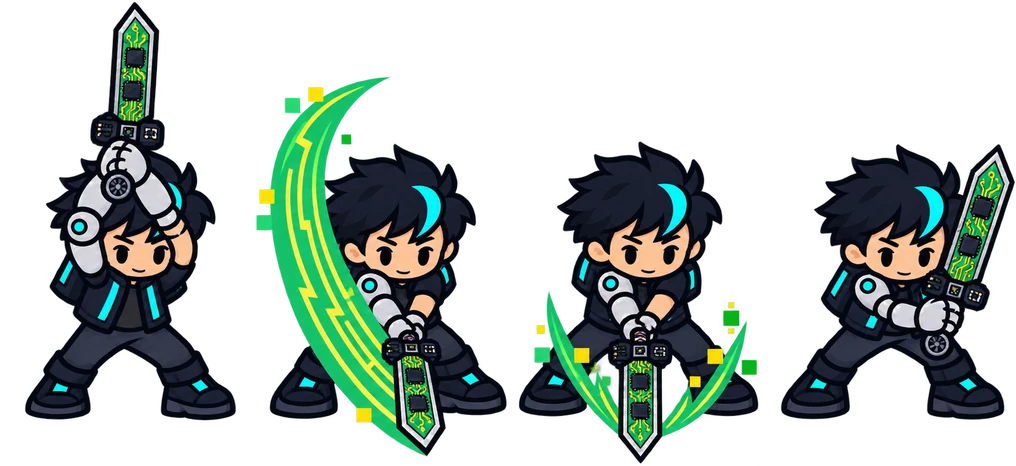
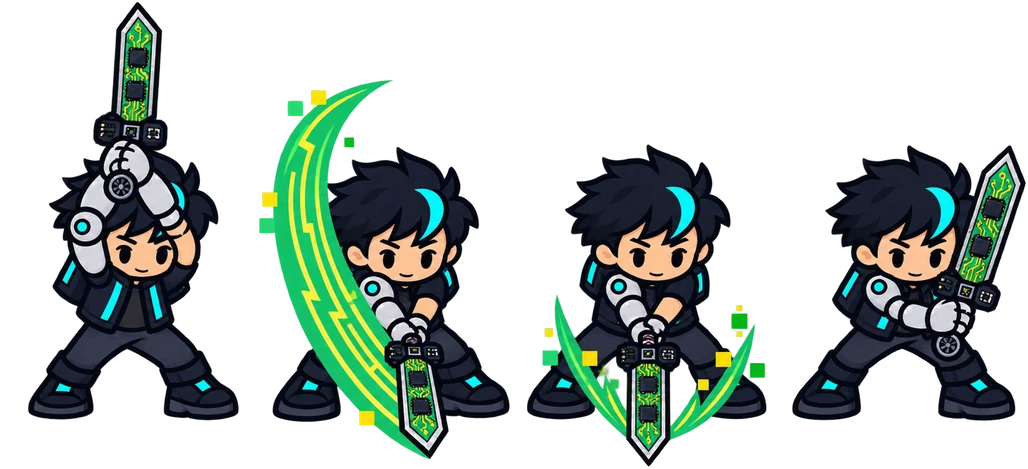
mothersword animation, shop pricing, added HIT rate

diff --git a/public/game.html b/public/game.html
@@ -598,9 +598,9 @@
       desc: 'A premium personality overlay. The biggest charisma boost per install. +15% price per install.' },
     // class 'equipment': goes to the inventory, gives its bonus only once equipped (I → A/D → Space). Never stacks (1 per slot).
     // Any number can be bought and carried (buying one you already have asks first); only one per equipment slot is worn.
-    { name: 'Banana sword', tab: 'weapons', buyLevel: 2, meleeArea: 1.2, price: 370, gain: { strength: 3, charisma: 1 }, attackMs: -120, class: 'equipment', kind: 'sword', art: 'bananaSword', rarity: 'common',   // attackMs: swings 0.1 s faster
+    { name: 'Banana sword', tab: 'weapons', buyLevel: 2, meleeArea: 1.2, price: 260, gain: { strength: 1, charisma: 1 }, hit: 5, attackMs: -100, class: 'equipment', kind: 'sword', art: 'bananaSword', rarity: 'common',   // attackMs: swings 0.1 s faster
       desc: 'A curved yellow blade that hits hard and swings fast. Goes to your inventory: equip it there. Only one sword can be equipped.' },
-    { name: 'Mothersword', tab: 'weapons', buyLevel: 2, meleeArea: 1.2, price: 370, gain: { strength: 3, charisma: 1 }, attackMs: -120, class: 'equipment', kind: 'sword', art: 'mothersword', attackSheets: 'mother', rarity: 'common',
+    { name: 'Mothersword', tab: 'weapons', buyLevel: 3, meleeArea: 1.25, price: 390, gain: { strength: 2, charisma: 1 }, hit: 9, attackMs: -120, class: 'equipment', kind: 'sword', art: 'mothersword', attackSheets: 'mother', rarity: 'common',
       desc: 'A home-made blade cut from an old motherboard. Basic for now, but its empty sockets can take upgrades at MutaTech.' },
     // armor (Armor tab): capGain raises max HP / NRG while worn, hpRegen adds health per minute, speed = move speed bonus
     { name: 'NRG Headset', tab: 'armor', price: 370, gain: { charisma: 1 }, capGain: { health: 1, energy: 3 }, hpRegen: 1, class: 'equipment', slot: 'head', art: 'nrgHeadset', rarity: 'common',
@@ -645,8 +645,8 @@
       desc: 'A pocket bank vault on your back. Twelve slots, and if you die, 10% of your money stays with you.' },
     // crafted at MutaTech (Banana sword + 5 MutaGen + 30 energy, hero lvl 4). price: its value (not sold in shops yet; the Scrap Dealer pays 40%).
     // meleeArea: melee area × 1.3; minLevel: hero level needed to equip. Uses the Banana sword picture until it has its own art.
-    { name: 'baNano Sword', class: 'equipment', kind: 'sword', rarity: 'rare', price: 1200, minLevel: 4, meleeArea: 1.3, attackMs: -140,
-      gain: { strength: 6, charisma: 3 }, art: 'bananoSword', attackSheets: 'banano',
+    { name: 'baNano Sword', class: 'equipment', kind: 'sword', rarity: 'rare', price: 1200, minLevel: 4, meleeArea: 1.3, attackMs: -140, hit: 24,
+      gain: { strength: 5, charisma: 3 }, art: 'bananoSword', attackSheets: 'banano',
       desc: 'A Banana sword mutated by MutaGen down to the nano level. Its living, self-sharpening peel glows acid green and cuts faster than ever.' },
   ];
   // Scrap Dealer (slums): buys equipment for 40% of its shop price plus 1% of that price in scrap (rounded down),
@@ -1306,43 +1306,87 @@
     for (const id of zonesOf('factoryIn')) for (let q = 0; q < 4; q++)
       for (let n = 3 + Math.floor(rnd() * 2); n >= 3; n--) if (placeRow(id, Array(n).fill('cont'), q)) break;
     for (const id of zonesOf('factory')) for (let i = 0; i < 6; i++) place(id, 'cont');
-    // toxic lake: a research hut in every zone; 1 pump station, in 0:-2, right at the water with its pipes going in
     // enemies placed with the scenery: A.extraFoes (no twins). tileOk: open ground, away from passages
     const tileOk = (A, x, y) => x >= 1 && y >= 1 && x <= COLS - 2 && y <= ROWS - 2 && !A.walls.some(o => inFoot(foot(o), x, y, 0))
       && !lakeT(A, x, y) && !bigT(A, x, y) && !(A.coils || []).some(c => c.x - 1 === x && c.y - 1 === y)
       && !A.exits.some(e => e.tiles.some(([tx, ty]) => Math.abs(tx - x) < 3 && Math.abs(ty - y) < 3))
       && !(A.extraFoes || []).some(f => f.spawn.x - 1 === x && f.spawn.y - 1 === y) && !behindTall(Object.keys(AREAS).find(k => AREAS[k] === A), x, y);
-    const addFoe = (A, kind, x, y) => (A.extraFoes = A.extraFoes || []).push({ kind, spawn: { x: x + 1, y: y + 1 } });
+    // every enemy belongs to a group (a lab's Scavs, a patch's Sporelings, the satellite's drones, or just itself).
+    // Enemies of different groups start at least FOE_GAP tiles apart (diagonals count as 1; a Loader counts all 4 of its tiles).
+    const FOE_GAP = 6;
+    let groupN = 0;
+    const newGroup = () => ++groupN;
+    const foeTiles = f => f.kind === 'loader' ? [[0, 0], [1, 0], [0, -1], [1, -1]].map(([dx, dy]) => [f.spawn.x - 1 + dx, f.spawn.y - 1 + dy]) : [[f.spawn.x - 1, f.spawn.y - 1]];
+    const farFromFoes = (A, tiles, group) => !(A.extraFoes || []).some(f => f.group !== group && foeTiles(f).some(([fx, fy]) => tiles.some(([x, y]) => Math.max(Math.abs(fx - x), Math.abs(fy - y)) < FOE_GAP)));
+    const addFoe = (A, kind, x, y, group = newGroup()) => (A.extraFoes = A.extraFoes || []).push({ kind, spawn: { x: x + 1, y: y + 1 }, group });
     function foeSomewhere(id, kind) {
       const A = AREAS[id];
-      for (let t = 0; t < 500; t++) { const x = 2 + Math.floor(rnd() * (COLS - 4)), y = 2 + Math.floor(rnd() * (ROWS - 4)); if (tileOk(A, x, y)) { addFoe(A, kind, x, y); return true; } }
+      for (let t = 0; t < 1500; t++) { const x = 2 + Math.floor(rnd() * (COLS - 4)), y = 2 + Math.floor(rnd() * (ROWS - 4)); if (tileOk(A, x, y) && farFromFoes(A, [[x, y]], -1)) { addFoe(A, kind, x, y); return true; } }
       return false;
     }
-    // toxic lake: 2 research labs per zone, 1-2 Toxic Scavs in front of each
-    for (const id of zonesOf('lake')) for (let i = 0; i < 2; i++) {
-      const hut = place(id, 'hut');
-      if (!hut) continue;
-      const A = AREAS[id], f = foot(hut), spots = [];
-      for (let y = f.y1 + 1; y <= f.y1 + 2; y++) for (let x = f.x0 - 1; x <= f.x1 + 1; x++) if (tileOk(A, x, y)) spots.push([x, y]);
-      const n = 1 + (rnd() < 0.5 ? 1 : 0);
-      for (const [x, y] of shuffle(spots).slice(0, n)) addFoe(A, 'scav', x, y);
-    }
+    // ---- scenery first: pump, satellite, labs, mushroom patches ----
     // 1 pump station, in 0:-2, right at the water. Exception: always mirrored, so its pipes (then at the lower-right) go into the lake
     const pumpFaces = (w, f, A) => { for (const x of [f.x1, f.x1 + 1, f.x1 + 2]) for (let y = f.y1 + 1; y <= f.y1 + 2; y++) if (lakeT(A, x, y)) return true; return false; };
     place('0:-2', 'pump', { shore: true, flip: true, test: pumpFaces });
-    // deep forest: the fallen satellite in -8:-1 with 6 Mav-1K drones, each 3-6 tiles from it; 2-3 Toxic Scavs in every zone
-    {
-      const id = '-8:-1', s = place(id, 'sat', { test: (w, f) => f.x0 >= 8 && f.x1 <= COLS - 9 && f.y0 >= 7 && f.y1 <= ROWS - 8 });   // room around it for the drones
-      if (s) {
-        const A = AREAS[id], f = foot(s);
-        const dist = (x, y) => Math.max(Math.max(f.x0 - x, 0, x - f.x1), Math.max(f.y0 - y, 0, y - f.y1));   // tiles from its footprint
-        for (let k = 0, t = 0; k < 6 && t < 2000; t++) {
-          const x = f.x0 - 6 + Math.floor(rnd() * (f.x1 - f.x0 + 13)), y = f.y0 - 6 + Math.floor(rnd() * (f.y1 - f.y0 + 13)), d = dist(x, y);
-          if (d >= 3 && d <= 6 && tileOk(A, x, y)) { addFoe(A, 'drone', x, y); k++; }
-        }
+    const sat = place('-8:-1', 'sat', { test: (w, f) => f.x0 >= 8 && f.x1 <= COLS - 9 && f.y0 >= 7 && f.y1 <= ROWS - 8 });   // the fallen satellite, room around it for its drones
+    // research labs: toxic lake 2 per zone; forest 5 (1 per 2 zones, rounded up, never 2 in a zone); deep forest 9: the zones are
+    // paired at random and every pair gets 2 labs (1 + 1 or 2 + 0), the odd zone 1
+    const labsIn = {};
+    for (const id of zonesOf('lake')) labsIn[id] = 2;
+    for (const id of shuffle(zonesOf('forest')).slice(0, Math.ceil(zonesOf('forest').length / 2))) labsIn[id] = 1;
+    { const dz = shuffle(zonesOf('deepForest'));
+      for (let i = 0; i + 1 < dz.length; i += 2) { if (rnd() < 0.5) { labsIn[dz[i]] = 1; labsIn[dz[i + 1]] = 1; } else { labsIn[dz[i]] = 2; labsIn[dz[i + 1]] = 0; } }
+      if (dz.length % 2) labsIn[dz[dz.length - 1]] = 1; }
+    // mushroom patches: forest 3 per zone, deep forest 8 per zone (2 in every quadrant)
+    for (const id of zonesOf('forest')) for (let i = 0; i < 3; i++) place(id, 'mush');
+    for (const id of zonesOf('deepForest')) for (let q = 0; q < 4; q++) for (let k = 0; k < 2; k++) if (!place(id, 'mush', { q })) place(id, 'mush');
+    // ---- enemies: biggest first, so the small groups fit around them ----
+    // Overgrown Loaders: one per 3 forest / deep forest zones, near the middle of the zone (the search widens step by step),
+    // never by the fallen satellite (spawn = its bottom-left tile)
+    for (const id of ['-3:-2', '-4:0', '-6:-1', '-7:0', '-8:-2', '-10:-1']) {
+      const A = AREAS[id], cx = Math.floor(COLS / 2), cy = Math.floor(ROWS / 2);
+      const satF = sat && AREAS['-8:-1'] === A ? foot(sat) : null;
+      done: for (let r = 3; r <= 18; r += 3) for (let t = 0; t < 400; t++) {
+        const x = cx - 1 - r + Math.floor(rnd() * (2 * r + 1)), y = cy - r + Math.floor(rnd() * (2 * r + 1));
+        const tiles = [[0, 0], [1, 0], [0, -1], [1, -1]].map(([dx, dy]) => [x + dx, y + dy]);
+        if (!tiles.every(([tx, ty]) => tileOk(A, tx, ty) && !(A.decos || []).some(o => inFoot(foot(o), tx, ty, 0))) || !farFromFoes(A, tiles, -1)) continue;   // not on a mushroom patch
+        if (satF && tiles.some(([tx, ty]) => Math.max(Math.max(satF.x0 - tx, 0, tx - satF.x1), Math.max(satF.y0 - ty, 0, ty - satF.y1)) < 10)) continue;
+        addFoe(A, 'loader', x, y); break done;
       }
     }
-    for (const id of zonesOf('deepForest')) { const n = 2 + (rnd() < 0.5 ? 1 : 0); for (let i = 0; i < n; i++) foeSomewhere(id, 'scav'); }
+    // the satellite's 6 Mav-1K drones (one group), each 3-6 tiles from it
+    if (sat) {
+      const A = AREAS['-8:-1'], f = foot(sat), g = newGroup();
+      const dist = (x, y) => Math.max(Math.max(f.x0 - x, 0, x - f.x1), Math.max(f.y0 - y, 0, y - f.y1));   // tiles from its footprint
+      for (let k = 0, t = 0; k < 6 && t < 3000; t++) {
+        const x = f.x0 - 6 + Math.floor(rnd() * (f.x1 - f.x0 + 13)), y = f.y0 - 6 + Math.floor(rnd() * (f.y1 - f.y0 + 13)), d = dist(x, y);
+        if (d >= 3 && d <= 6 && tileOk(A, x, y) && farFromFoes(A, [[x, y]], g)) { addFoe(A, 'drone', x, y, g); k++; }
+      }
+    }
+    // Toxic Scavs live only at labs, in front of the door: zone level 1-5 → 1-2 per lab, 6-10 → 1-3, 11-15 → 2-3, 16-20 → 3-4.
+    // A lab is only put where its front yard is FOE_GAP tiles from every other group.
+    const scavsAt = lvl => lvl <= 5 ? [1, 2] : lvl <= 10 ? [1, 3] : lvl <= 15 ? [2, 3] : [3, 4];
+    const labYard = (A, f) => { const spots = []; for (let y = f.y1 + 1; y <= f.y1 + 2; y++) for (let x = f.x0 - 1; x <= f.x1 + 1; x++) if (tileOk(A, x, y)) spots.push([x, y]); return spots; };
+    for (const id in labsIn) for (let i = 0; i < labsIn[id]; i++) {
+      const A = AREAS[id], [lo, hi] = scavsAt(zoneLevel(id)), n = lo + Math.floor(rnd() * (hi - lo + 1));
+      const hut = place(id, 'hut', { test: (w, f) => { const y = labYard(A, f); return y.length >= n && farFromFoes(A, y, -1); } });
+      if (!hut) continue;
+      const g = newGroup();
+      for (const [x, y] of shuffle(labYard(A, foot(hut))).slice(0, n)) addFoe(A, 'scav', x, y, g);
+    }
+    // Sporelings: a group of 2-3 at one in three mushroom patches of each zone (rounded up), on or right next to the patch
+    for (const id of [...zonesOf('forest'), ...zonesOf('deepForest')]) {
+      const A = AREAS[id], patches = shuffle((A.decos || []).filter(w => w.art === 'mushroomPatch'));
+      let want = Math.ceil(patches.length / 3);
+      for (const m of patches) {
+        if (!want) break;
+        const f = foot(m), spots = [];
+        for (let y = f.y0 - 1; y <= f.y1 + 1; y++) for (let x = f.x0 - 1; x <= f.x1 + 1; x++) if (tileOk(A, x, y)) spots.push([x, y]);
+        const pick = shuffle(spots).slice(0, 2 + (rnd() < 0.5 ? 1 : 0));
+        if (pick.length < 2 || !farFromFoes(A, pick, -1)) continue;
+        const g = newGroup(); for (const [x, y] of pick) addFoe(A, 'spore', x, y, g); want--;
+      }
+    }
     // Drips in the slums: 4 up to 2 zones from the city, then +2 for every 2 zones further (by the farther map coordinate);
     // the greaser district has 12. They replace the Drips placed before, have no twins, and never start behind a tall building.
     for (const id of [...slums, ...zonesOf('greaser')]) {
@@ -1351,30 +1395,12 @@
       A.drips = 0; A.foes = A.foes.filter(f => f.kind !== 'drip');
       for (let i = 0, t = 0; i < n && t < 3000; t++) {
         const x = 2 + Math.floor(rnd() * (COLS - 4)), y = 2 + Math.floor(rnd() * (ROWS - 4));
-        if (!tileOk(A, x, y) || behindTall(id, x, y) || (A.extraFoes || []).some(f => Math.max(Math.abs(f.spawn.x - 1 - x), Math.abs(f.spawn.y - 1 - y)) < 4)) continue;
+        if (!tileOk(A, x, y) || behindTall(id, x, y) || !farFromFoes(A, [[x, y]], -1)) continue;
         addFoe(A, 'drip', x, y); i++;
       }
     }
     // factory entrance: 2 Drips and 1 Mav-1K drone
     for (const id of zonesOf('factoryIn')) { foeSomewhere(id, 'drip'); foeSomewhere(id, 'drip'); foeSomewhere(id, 'drone'); }
-    for (const id of zonesOf('deepForest')) for (let q = 0; q < 4; q++) if (!place(id, 'mush', { q })) place(id, 'mush');
-    // Sporelings: a group of 2-3 hiding on or right next to every mushroom patch
-    for (const id of zonesOf('deepForest')) {
-      const A = AREAS[id];
-      for (const m of (A.decos || []).filter(w => w.art === 'mushroomPatch')) {
-        const f = foot(m), spots = [];
-        for (let y = f.y0 - 1; y <= f.y1 + 1; y++) for (let x = f.x0 - 1; x <= f.x1 + 1; x++) if (tileOk(A, x, y)) spots.push([x, y]);
-        for (const [x, y] of shuffle(spots).slice(0, 2 + (rnd() < 0.5 ? 1 : 0))) addFoe(A, 'spore', x, y);
-      }
-    }
-    // Overgrown Loaders: one per 3 forest / deep forest zones, on open 2 x 2 ground near the middle (spawn = its bottom-left tile)
-    for (const id of ['-3:-2', '-4:0', '-6:-1', '-7:0', '-8:-2', '-10:-1']) {
-      const A = AREAS[id];
-      for (let t = 0; t < 2000; t++) {
-        const x = 8 + Math.floor(rnd() * (COLS - 18)), y = 7 + Math.floor(rnd() * (ROWS - 14));
-        if ([[0, 0], [1, 0], [0, -1], [1, -1]].every(([dx, dy]) => tileOk(A, x + dx, y + dy))) { addFoe(A, 'loader', x, y); break; }
-      }
-    }
   }
   const footCX = w => { const f = foot(w); return (f.x0 + f.x1 + 1) / 2; };   // footprint centre, in tiles
   const START = { x: 21, y: 11 };   // 0-based: just below HomeDome
@@ -1486,7 +1512,7 @@
     beefBrisket: 'art/items/food/beefBrisket.webp', dumplings: 'art/items/food/dumplings.webp', nrgShot: 'art/items/food/nrgShot.webp',   // food icons
     nrgHeadset: 'art/items/armor/nrgHeadset.webp', nrgShirt: 'art/items/armor/nrgShirt.webp', nrgSneakers: 'art/items/armor/nrgSneakers.webp',   // armor icons
     bananoSword: 'art/items/weapons/bananoSword.webp',   // baNano Sword icon (also drawn on his back)
-    heroMotherSide: 'art/hero/heroMotherSide.webp', heroMotherDown: 'art/hero/heroMotherDown.webp',   // Mothersword attacks
+    heroMotherSide: 'art/hero/heroMotherSide.webp', heroMotherDown: 'art/hero/heroMotherDown.webp', heroMotherUp: 'art/hero/heroMotherUp.webp',   // Mothersword attacks
     heroBananoSide: 'art/hero/heroBananoSide.png', heroBananoDown: 'art/hero/heroBananoDown.png', heroBananoUp: 'art/hero/heroBananoUp.png',   // baNano Sword attacks
     ground:       'art/world/ground/ground.webp',   // seamless street floor, no joints (repeats every 6 x 6 tiles)
     groundSlums: 'art/world/ground/groundSlums.jpg', groundFactory: 'art/world/ground/groundFactory.jpg', groundLake: 'art/world/ground/groundLake.jpg',   // zone floors, same repeat
@@ -1553,7 +1579,7 @@
   const HERO_ATTACK_SHEETS = { punch: { side: 'heroPunchSide', down: 'heroPunchDown', up: 'heroPunchUp' },
                                sword: { side: 'heroSwordSide', down: 'heroSwordDown', up: 'heroSwordUp' },
                                banano: { side: 'heroBananoSide', down: 'heroBananoDown', up: 'heroBananoUp' },
-                               mother: { side: 'heroMotherSide', down: 'heroMotherDown', up: 'heroSwordUp' } };   // Mothersword: its up sheet isn't made yet (Banana sword's for now)   // a sword's attackSheets picks its set
+                               mother: { side: 'heroMotherSide', down: 'heroMotherDown', up: 'heroMotherUp' } };   // a sword's attackSheets picks its set
   const ATTACK_CELLS = {
     heroPunchSide: { cellW: 275, cellH: 283, ax: 98.0, foot: 2.1 },
     heroPunchDown: { cellW: 183, cellH: 283, ax: 91.3, foot: 5.0 },
@@ -1564,8 +1590,9 @@
     heroBananoSide: { cellW: 364, cellH: 350, ax: 138.0, foot: 3.0 },
     heroBananoDown: { cellW: 302, cellH: 381, ax: 195.5, foot: 5.0 },
     heroBananoUp: { cellW: 306, cellH: 431, ax: 179.0, foot: 4.0 },
-    heroMotherSide: { cellW: 330, cellH: 366, ax: 162, foot: 5 },
-    heroMotherDown: { cellW: 254, cellH: 466, ax: 130, foot: 46 }
+    heroMotherSide: { cellW: 311, cellH: 367, ax: 146, foot: 8 },
+    heroMotherDown: { cellW: 257, cellH: 469, ax: 133, foot: 50 },
+    heroMotherUp: { cellW: 306, cellH: 433, ax: 181, foot: 4 }
   };
   const HERO_ATTACK_ANIM_MS = 400;   // 4 frames × 100 ms
 
@@ -2139,7 +2166,7 @@
     function snapshot() {
       return { x: player.x, y: player.y, fx: facing.x, fy: facing.y, stats: statsNoBuffs(), deals, prices: { ...prices }, dealsDone, foodBought, itemsV2: true, sets: [...activeSets], promotion, kills, dripKills, weaponBought, rogueDone: [...rogueDone], cheated: runCheated, quests: quests.map(q => q.kind === 'delivery' ? { ...q, left: Math.max(0, q.until - gameTime) } : { ...q }),
                inventory: inventory.map(it => ({ ...it })), equipped: equipped.map(it => ({ ...it })), skills: [...skills],
-               areaName, restReadyAt, levels: { ...levels }, manaCap: CAP_BASE.mana, energyCap: CAP_BASE.energy, level: hero.level, exp: hero.exp, strengthLevel: hero.level, bag, talents: JSON.parse(JSON.stringify(talents)), ceoCalls, tut, tutV: 3, tutN, tutQuiz: { ...tutQuiz }, discovered: [...discovered], enemies: saveEnemies(),
+               weaponsV: 2, areaName, restReadyAt, levels: { ...levels }, manaCap: CAP_BASE.mana, energyCap: CAP_BASE.energy, level: hero.level, exp: hero.exp, strengthLevel: hero.level, bag, talents: JSON.parse(JSON.stringify(talents)), ceoCalls, tut, tutV: 3, tutN, tutQuiz: { ...tutQuiz }, discovered: [...discovered], enemies: saveEnemies(),
                piles: piles.map(p => ({ ...p, gear: p.gear.map(it => ({ ...it })), items: p.items.map(it => ({ ...it })), left: Math.max(0, p.until - gameTime), until: undefined })) };
     }
     function applySave(s) {
@@ -2158,6 +2185,10 @@
       bag = s.bag !== undefined ? s.bag : !inventory.length ? null : inventory.length <= 2 ? 'BackBag' : 'BackBag X';   // saves from before bags: a bag that fits what they carry
       if (s.bag === undefined && bag === 'BackBag X') stats.charisma += 1;
       equipped.length = 0; equipped.push(...renameItems(s.equipped)); recalcCaps();
+      if ((s.weaponsV || 1) < 2) {   // swords were rebalanced: a sword worn in an older save had its old STR added to the stats
+        const OLD_STR = { 'Banana sword': 3, 'Mothersword': 3, 'baNano Sword': 6 };
+        for (const it of equipped) if (it.name in OLD_STR) stats.strength += ((itemDef(it.name) || {}).gain || {}).strength - OLD_STR[it.name];
+      }
       if (!s.itemsV2 && equipped.some(it => it.name === 'Banana sword')) stats.strength -= 1;   // the sword gave +4 STR before (now +3)
       activeSets.clear(); for (const n of s.sets || []) activeSets.add(n); recalcCaps();
       fixEquipSlots(); syncSets();
@@ -3344,6 +3375,14 @@
       if (stats.health <= 0) gameOver();
     }
 
+    // hit rate: 97% against enemies of the hero's level, 100% against lower ones, -10% for every level the enemy is above him.
+    // HIT points (Hero panel, 0 by default) add 0.01% each, up to HIT_CAP points (+3%: 100% against his own level).
+    // They come from equipment (`hit` on an item) later.
+    const HIT_BASE = 0.97, HIT_PER_LVL = 0.1, HIT_PER_PT = 0.0001, HIT_CAP = 300;
+    const hitPts = () => Math.min(HIT_CAP, Math.max(0, equipSum('hit')));
+    const hitChance = (enemyLvl = npcLevel()) => enemyLvl < hero.level ? 1 : Math.max(0, Math.min(1, HIT_BASE + HIT_PER_PT * hitPts() - HIT_PER_LVL * (enemyLvl - hero.level)));
+    const heroHits = () => Math.random() < hitChance();   // every enemy in a fight lives in the hero's zone, so has its level
+    function heroMissed(d) { d.aggro = true; d.returning = false; float('miss', '#8a8a8a', d.x + (foeSize(d) === 2 ? 1 : 0.5), d.y - (d.kind === 'loader' ? 2.4 : 0.9)); }
     function heroAttack() {
       if (gameTime < heroNextAttack) return;
       heroNextAttack = gameTime + heroAttackMs();
@@ -3351,8 +3390,9 @@
       heroAttackDir = facing.x ? 'side' : facing.y > 0 ? 'down' : 'up';
       if (facing.x) lookX = facing.x;
       const crit = Math.random() < critChance(), dmg = Math.round(heroStr() * (crit ? 2 + critBonus() : 1));   // a crit adds strength once more (+ Quick Hands)
-      if (crit && meleeTargets().length) onHeroCrit();
-      for (const d of meleeTargets()) { drip = d; damageDrip(dmg, crit ? `-${dmg} crit!` : `-${dmg}`, crit ? '#ffe600' : '#fff'); }
+      let landed = false;
+      for (const d of meleeTargets()) { drip = d; if (!heroHits()) { heroMissed(d); continue; } landed = true; damageDrip(dmg, crit ? `-${dmg} crit!` : `-${dmg}`, crit ? '#ffe600' : '#fff'); }
+      if (crit && landed) onHeroCrit();
     }
     // time between swings: 1 s with fists; equipment can shorten it (attackMs, e.g. banana sword -100 ms), at least 0.3 s
     const heroAttackMs = () => Math.max(300, Math.round((HERO_ATTACK_MS + equipped.reduce((t, it) => t + ((itemDef(it.name) || {}).attackMs || 0), 0)) / (1 + talentAttackSpeed())));
@@ -3509,7 +3549,8 @@
           if (gone || e.dead || cloaked(e)) continue;
           drip = e;
           const c = foeCentre(dripPos(), e);
-          if (Math.hypot(c.x - pr.x, c.y - pr.y) < 0.3 + foeR(e)) {   // hit: root + damage over time (refreshes if already on)
+          if (Math.hypot(c.x - pr.x, c.y - pr.y) < 0.3 + foeR(e)) {
+            if (!heroHits()) { heroMissed(e); gone = true; continue; }   // Magic Tar missed: no root, no damage   // hit: root + damage over time (refreshes if already on)
             drip.stunUntil = gameTime + pr.spell.rootMs;
             drip.dot = { spell: pr.spell, left: pr.spell.ticks, next: gameTime + pr.spell.tickMs };
             drip.aggro = true;
@@ -4542,7 +4583,7 @@
     }
     // enemy panel at the top while fighting: portrait, name, health, mana
     function drawFoePanel() {
-      const w = 300, h = 80, x = (canvas.width - w) / 2, y = phoneView && canvas.height > canvas.width ? phudBottom() + 12 : 12;
+      const w = 340, h = 80, x = (canvas.width - w) / 2, y = phoneView && canvas.height > canvas.width ? phudBottom() + 12 : 12;
       ctx.fillStyle = 'rgba(0, 0, 0, 0.75)'; rr(x, y, w, h, 12); ctx.fill();
       ctx.strokeStyle = 'rgba(255, 43, 214, 0.6)'; ctx.lineWidth = 2; rr(x + 1, y + 1, w - 2, h - 2, 11); ctx.stroke();
       const T = ET(drip), pic = ART[({ scav: 'scavPortrait', drone: 'dronePortrait', spore: 'sporelingPortrait', loader: 'loaderPortrait' })[drip.kind] || 'dripPortrait'];
@@ -4550,8 +4591,11 @@
       else if (drip.kind === 'drone') { ctx.fillStyle = '#1B2233'; ctx.fillRect(x + 8, y + 8, 64, 64); drawDroneBody(x + 40, y + 44, 0, gameTime, !!drip.hitAt, -1); }
       const tx = x + 84, bw = w - 84 - 14;
       ctx.textBaseline = 'middle';
-      ctx.textAlign = 'left'; ctx.fillStyle = '#fff'; ctx.font = '600 22px ' + MONO; ctx.fillText(T.name, tx, y + 18);
-      const lvl = npcLevel();   // red when stronger than the hero, grey when weaker
+      const lvl = npcLevel();   // level: red when stronger than the hero, grey when weaker
+      ctx.font = '600 16px ' + MONO; const tagW = ctx.measureText(`lvl ${lvl}`).width;
+      ctx.textAlign = 'left'; ctx.fillStyle = '#fff';
+      for (let fs = 22; fs >= 12; fs--) { ctx.font = `600 ${fs}px ${MONO}`; if (ctx.measureText(T.name).width <= bw - tagW - 10) break; }   // long names shrink, never under the tag
+      ctx.fillText(T.name, tx, y + 18);
       ctx.textAlign = 'right'; ctx.fillStyle = lvl > hero.level ? '#e5484d' : lvl < hero.level ? '#8a8a8a' : '#fff'; ctx.font = '600 16px ' + MONO;
       ctx.fillText(`lvl ${lvl}`, tx + bw, y + 18);
       // bars styled like the hero plate's: dark track, thin border, coloured fill, "now/max" centred inside
@@ -5566,6 +5610,7 @@
       return Object.entries(all).sort((a, b) => STAT_ORDER.indexOf(a[0]) - STAT_ORDER.indexOf(b[0])).map(([st, n]) => [`${n > 0 ? '+' : ''}${n} ${STAT_SHORT[st] || st}`, STAT_COLOR[st] || '#fff']); };
     const bonusParts = def => def ? [...(def.slots ? [[`${def.slots} SLOTS`, '#f2f2f2']] : []), ...statParts(def),
       ...(def.hpRegen ? [[`+${def.hpRegen} HP REG`, STAT_COLOR.health]] : []), ...(def.speed ? [[`+${Math.round(def.speed * 100)}% SPD`, '#00e5ff']] : []),
+      ...(def.hit ? [[`+${def.hit} HIT`, '#cfcfcf']] : []),   // hit points (0.01% each)
       ...(def.attackMs ? [[`${def.attackMs > 0 ? '+' : ''}${secs(def.attackMs)}s ATK SPD`, '#ffe600']] : []),
       ...(def.meleeArea ? [[`+${Math.round((def.meleeArea - 1) * 100)}% AOE`, '#00e5ff']] : [])] : [];
     const bonusText = def => bonusParts(def).map(p => p[0]).join('  ');
@@ -5644,6 +5689,7 @@
         ['MANA', CAPS.mana, 'mana'], ['CHSM', stats.charisma, 'charisma'],
         ['NRG', CAPS.energy, 'energy'],
         ['CRIT', `${(critChance() * 100).toFixed(2)}%`, 'crit'],
+        ['HIT', hitPts(), 'hit'],   // hit points: 0 = 97% vs his own level, each +0.01% (cap 300)
         ['ATK SPD', `${secs(heroAttackMs())}s`, 'atk'],
         ['HP REG', Math.round(healthRegen()), 'hregen', '/min'], ['MANA REG', `${Math.round(manaRegen())}/min`, 'mregen'],
         ['MOVE SPD', Math.round((1 + lbSpeed() + equipSum('speed')) * 100), 'spd', '%'],
